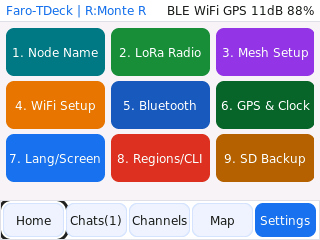
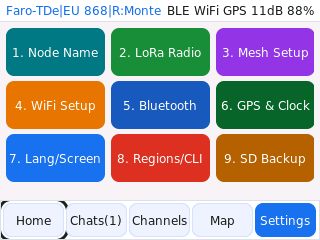
Faro 0.10.0
Version bump for radio regions, data kept on flash, key import/export off
and the ThinkNode M9 keypad. No release files yet: FLASHING.md and the web
flasher stay on the 0.9.2 binaries. README: screenshots of the radio
region page, the welcome screen, the node scan and the contact path.

Screenshots regenerated with faro-sim from this version.

Changed region(s): [[0.1875, 0.0, 0.5, 0.0875]]

diff --git a/README.md b/README.md
@@ -8,7 +8,8 @@ companion firmware. It runs on the device next to the normal companion interface
   Faro attaches through upstream's `platformio.local.ini` hook and the `AbstractUITask` listener; it adds no
   companion opcodes.
 - **Licence:** Apache-2.0 (see `LICENSE`, `NOTICE`, `LICENSES/`, `docs/THIRD_PARTY.md`).
-- **Status:** 0.9.2, pre-1.0. Test it on your own hardware before relying on it.
+- **Status:** 0.10.0, pre-1.0. The latest release binaries are 0.9.2 (see `docs/FLASHING.md`); build from source
+  for 0.10.0. Test it on your own hardware before relying on it.
 
 ## Screenshots
 
@@ -25,6 +26,10 @@ companion firmware. It runs on the device next to the normal companion interface
 | Mesh graph | Diagnostics | Mesh tools | Settings |
 |---|---|---|---|
 | ![Mesh graph](docs/screenshots/diag_graph.png) | ![Diagnostics](docs/screenshots/14_diagnostics.png) | ![Mesh tools](docs/screenshots/diag_mesh.png) | ![Settings](docs/screenshots/13_settings.png) |
+
+| Radio region | Welcome (region) | Node scan | Contact path |
+|---|---|---|---|
+| ![Radio settings with the region button](docs/screenshots/settings_radio.png) | ![Welcome screen with the region choice](docs/screenshots/15_boot_wizard.png) | ![Discover with zero-hop scan answers](docs/screenshots/discover_scan.png) | ![Contact path and trace](docs/screenshots/contact_path.png) |
 
 More in [`docs/screenshots/`](docs/screenshots/).
 

diff --git a/docs/FLASHING.md b/docs/FLASHING.md
@@ -10,6 +10,9 @@ Release files (GitHub release `v0.9.2`):
 
 `<board>` is `tdeck` (T-Deck and T-Deck Plus), `tdeck-max`, `thinknode-m9`, `tbeam-supreme` or `heltec-v3`.
 
+The source is at 0.10.0, which has no release files yet. Radio regions and the data Faro keeps on flash (both
+below) are 0.10.0 features: build it from source (`pio run -e faro_<board>`) to get them.
+
 ## 0. Back up the device first
 
 ```bash
